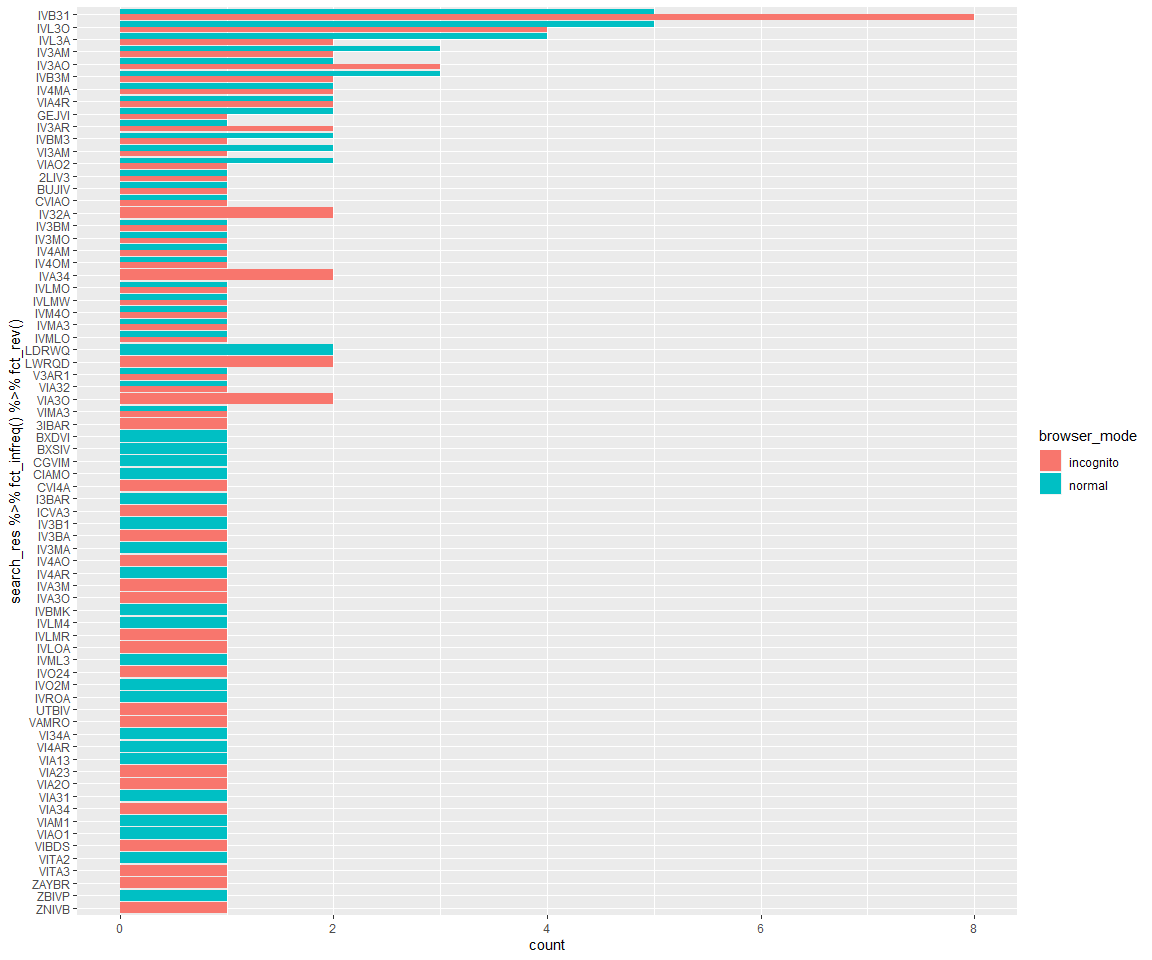
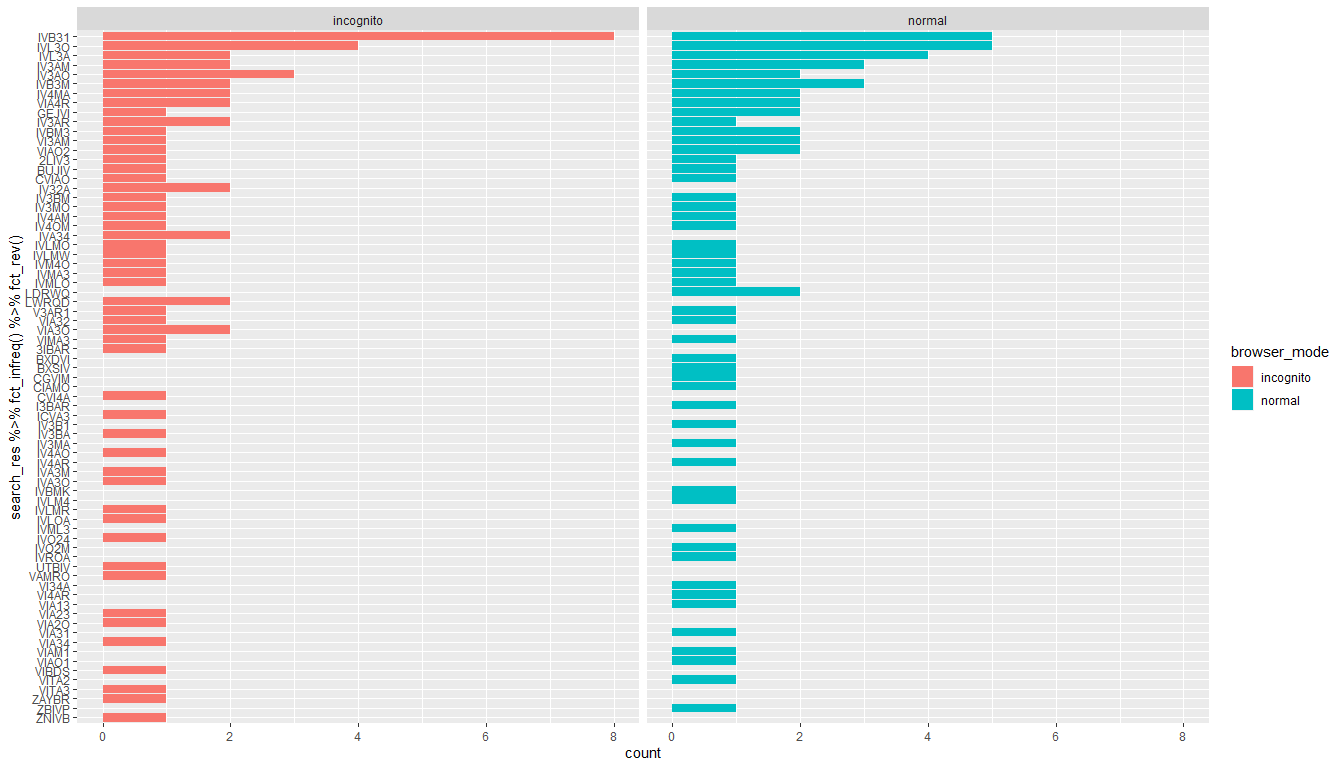
fix last plot

Changed region(s): [[0.0, 0.0, 0.9062, 0.9688], [0.875, 0.4375, 1.0, 0.5312], [0.4688, 0.9688, 0.5, 1.0]]

diff --git a/filter_bubble_test_summary.md b/filter_bubble_test_summary.md
@@ -100,15 +100,15 @@ przeglądarki
 
 ![](filter_bubble_test_summary_files/figure-gfm/search_res_mode_count-1.png)<!-- -->
 
-Przykładowo najczęściej pojawiający się w trybie incognito zestaw
-wyników IVL3O oznacza, że osoba w odpowiedzi na zapytanie “Paweł
-Adamowicz” w wyszukiwarce Google uzyskała następujące domeny w podanej
-kolejności:
+Przykładowo najczęściej pojawiający się (8 na 73 wyniki) w trybie
+incognito zestaw wyników IVB31 oznacza, że osoba w odpowiedzi na
+zapytanie “Paweł Adamowicz” w wyszukiwarce Google uzyskała następujące
+domeny w podanej kolejności:
 
-| letter\_top\_domain | url\_top\_domain       |
-| :------------------ | :--------------------- |
-| I                   | pl.wikipedia.org       |
-| V                   | www.facebook.com       |
-| L                   | trojmiasto.wyborcza.pl |
-| 3                   | www.wprost.pl          |
-| O                   | wiadomosci.gazeta.pl   |
+| letter\_top\_domain | url\_top\_domain  |
+| :------------------ | :---------------- |
+| I                   | pl.wikipedia.org  |
+| V                   | www.facebook.com  |
+| B                   | bialystok.onet.pl |
+| 3                   | www.wprost.pl     |
+| 1                   | www.trojmiasto.pl |
